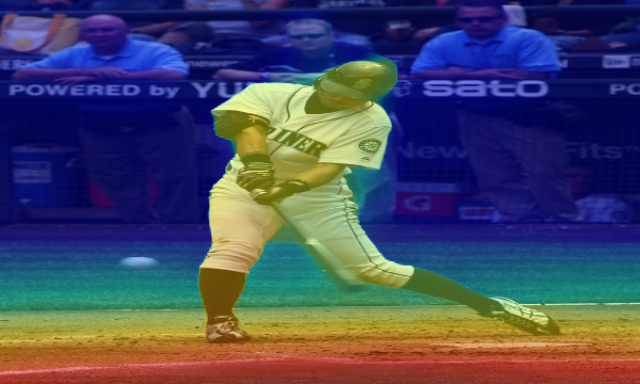
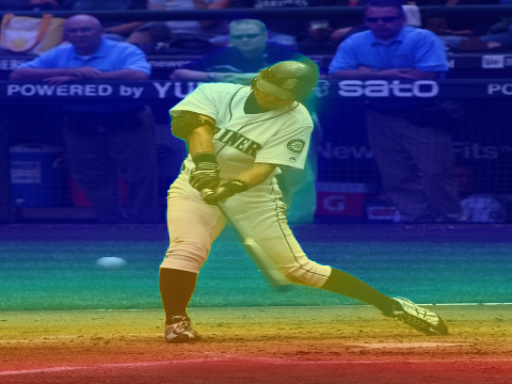
optimization

diff --git a/single_inference/inference_onnx.py b/single_inference/inference_onnx.py
@@ -4,7 +4,7 @@ import cv2
 import matplotlib.pyplot as plt
 
 # ONNX モデルのパス
-onnx_model_path = "pydnet_384x640.onnx"
+onnx_model_path = "pydnet_384x512.onnx"
 
 # ONNX Runtime セッションを作成
 session = ort.InferenceSession(
@@ -14,7 +14,7 @@ session = ort.InferenceSession(
 
 # モデルの入力情報を取得
 input_name = session.get_inputs()[0].name
-input_shape = session.get_inputs()[0].shape  # [1,3,384,640]
+input_shape = session.get_inputs()[0].shape  # [1,3,384,512]
 input_dtype = session.get_inputs()[0].type   # float32
 
 print(f"Model Loaded: {onnx_model_path}")
@@ -26,7 +26,7 @@ def preprocess_image(image_path):
     """
     画像を読み込み、前処理を行い、ONNX モデルに適した形状に変換する。
     入力: 画像ファイルのパス
-    出力: float32のNumPy配列 (1,3,384,640)
+    出力: float32のNumPy配列 (1,3,384,512)
     """
     # 画像を読み込む
     img = cv2.imread(image_path)
@@ -36,8 +36,9 @@ def preprocess_image(image_path):
     # OpenCV は BGR で読み込むため、RGB に変換
     img_rgb = cv2.cvtColor(img, cv2.COLOR_BGR2RGB)
 
-    # 画像のリサイズ (384x640)
-    img_resized = cv2.resize(img_rgb, (640, 384))
+    # 画像のリサイズ (384x512)
+    n, c, h, w = input_shape
+    img_resized = cv2.resize(img_rgb, (w, h))
 
     # チャンネルの順序を (H, W, C) -> (C, H, W) に変更
     img_transposed = img_resized.transpose(2, 0, 1)
@@ -54,18 +55,14 @@ def postprocess_depth_map(depth_map, original_image):
     """
     デプス推定結果をヒートマップ化し、元画像と重畳表示する。
     入力:
-        - depth_map: (1, 1, 384, 640) の NumPy 配列 (モデルの出力)
-        - original_image: (384, 640, 3) の元画像
+        - depth_map: (1, 1, 384, 512) の NumPy 配列 (モデルの出力)
+        - original_image: (384, 512, 3) の元画像
     出力:
         - ヒートマップ重畳画像
     """
     # デプスマップの形状変更 (1, 1, H, W) → (H, W)
+    # デプスマップは正規化 (0-1) 済み
     depth_map = depth_map.squeeze()
-
-    # デプスマップの正規化 (0-1)
-    depth_min = np.min(depth_map)
-    depth_max = np.max(depth_map)
-    depth_map = (depth_map - depth_min) / (depth_max - depth_min + 1e-6)
 
     # ヒートマップ化 (OpenCV の COLORMAP_JET を適用)
     depth_colormap = cv2.applyColorMap((depth_map * 255).astype(np.uint8), cv2.COLORMAP_JET)
@@ -88,7 +85,7 @@ def run_inference(image_path):
     # 推論実行
     outputs = session.run(None, {input_name: input_tensor})
 
-    # モデルの出力 (通常は [1, 1, 384, 640])
+    # モデルの出力 (通常は [1, 1, 384, 512])
     depth_map = outputs[0]  # モデルの出力が 1 つの場合
 
     # デプスマップを可視化

diff --git a/single_inference/network.py b/single_inference/network.py
@@ -52,7 +52,7 @@ class Pydnet(object):
         prediction = tf.nn.relu(prediction)
         min_depth = tf.reduce_min(prediction, keep_dims=True)
         max_depth = tf.reduce_max(prediction, keep_dims=True)
-        prediction = tf.transpose((prediction - min_depth), perm=[0,3,1,2]) / (max_depth - min_depth)
+        prediction = tf.transpose((prediction - min_depth), perm=[0,3,1,2]) / (max_depth + 1e-6 - min_depth)
         return prediction
 
     def encoder(self, input_image):
